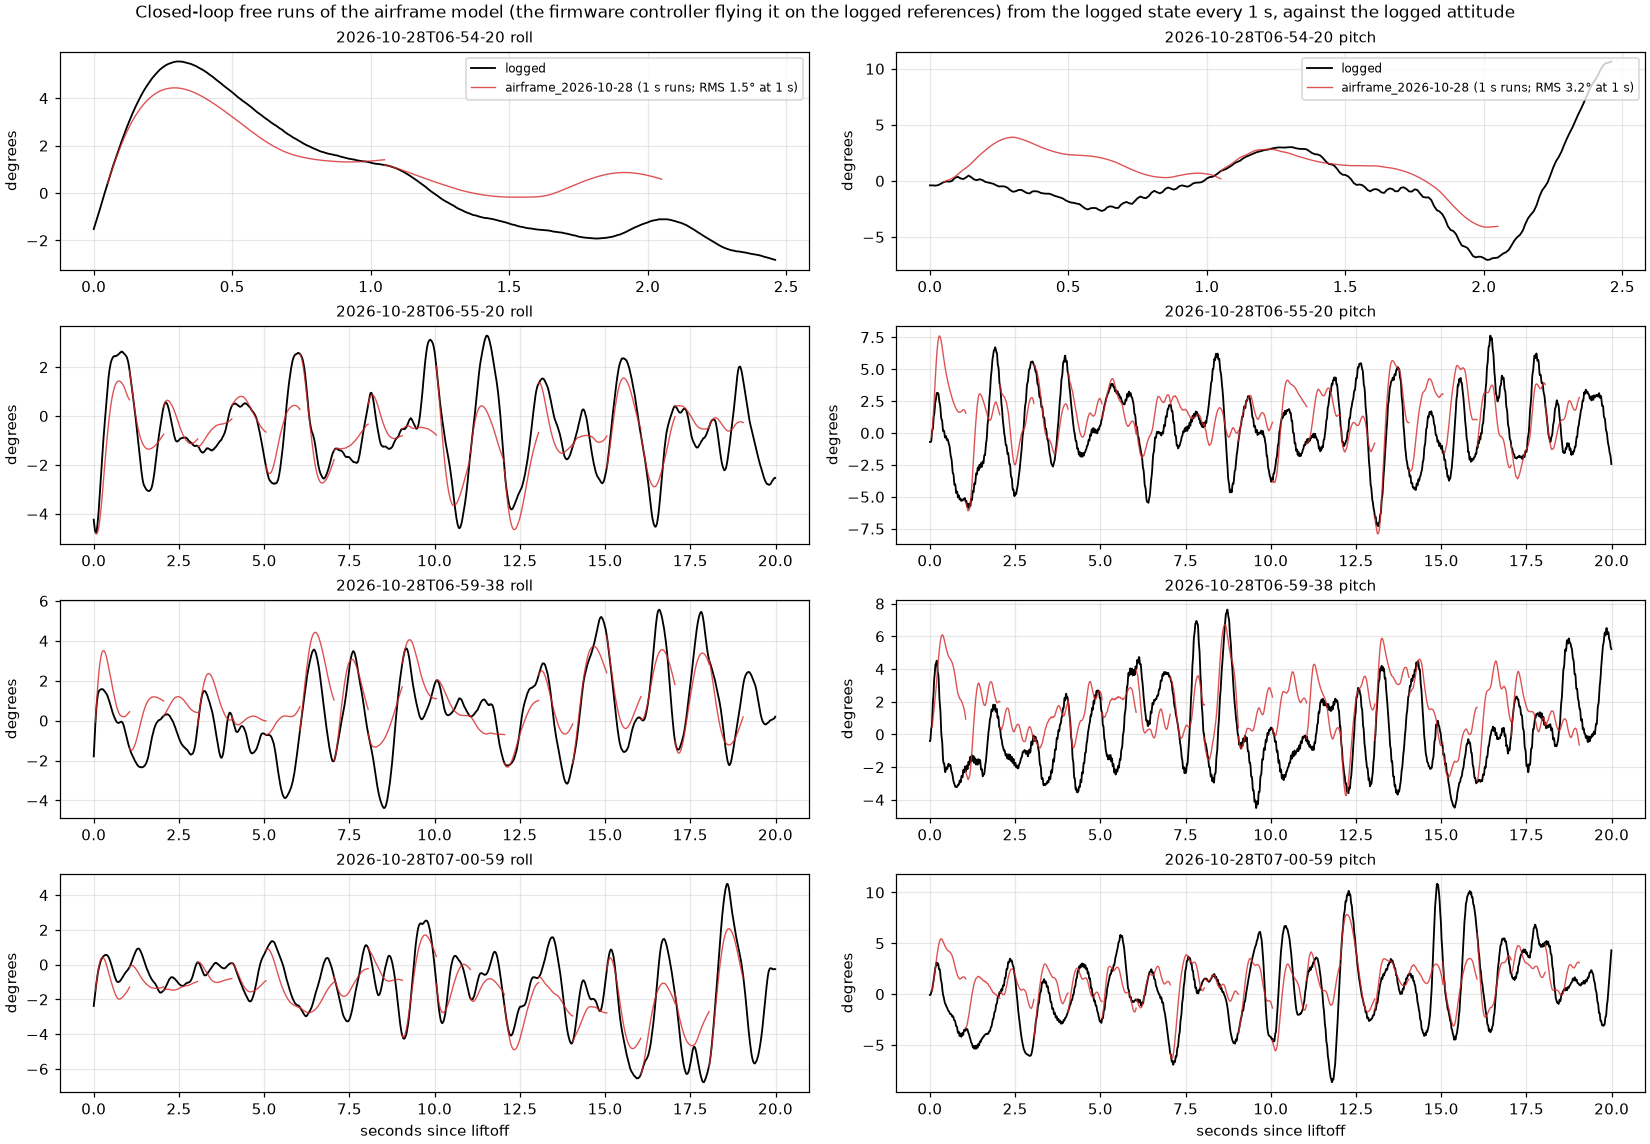
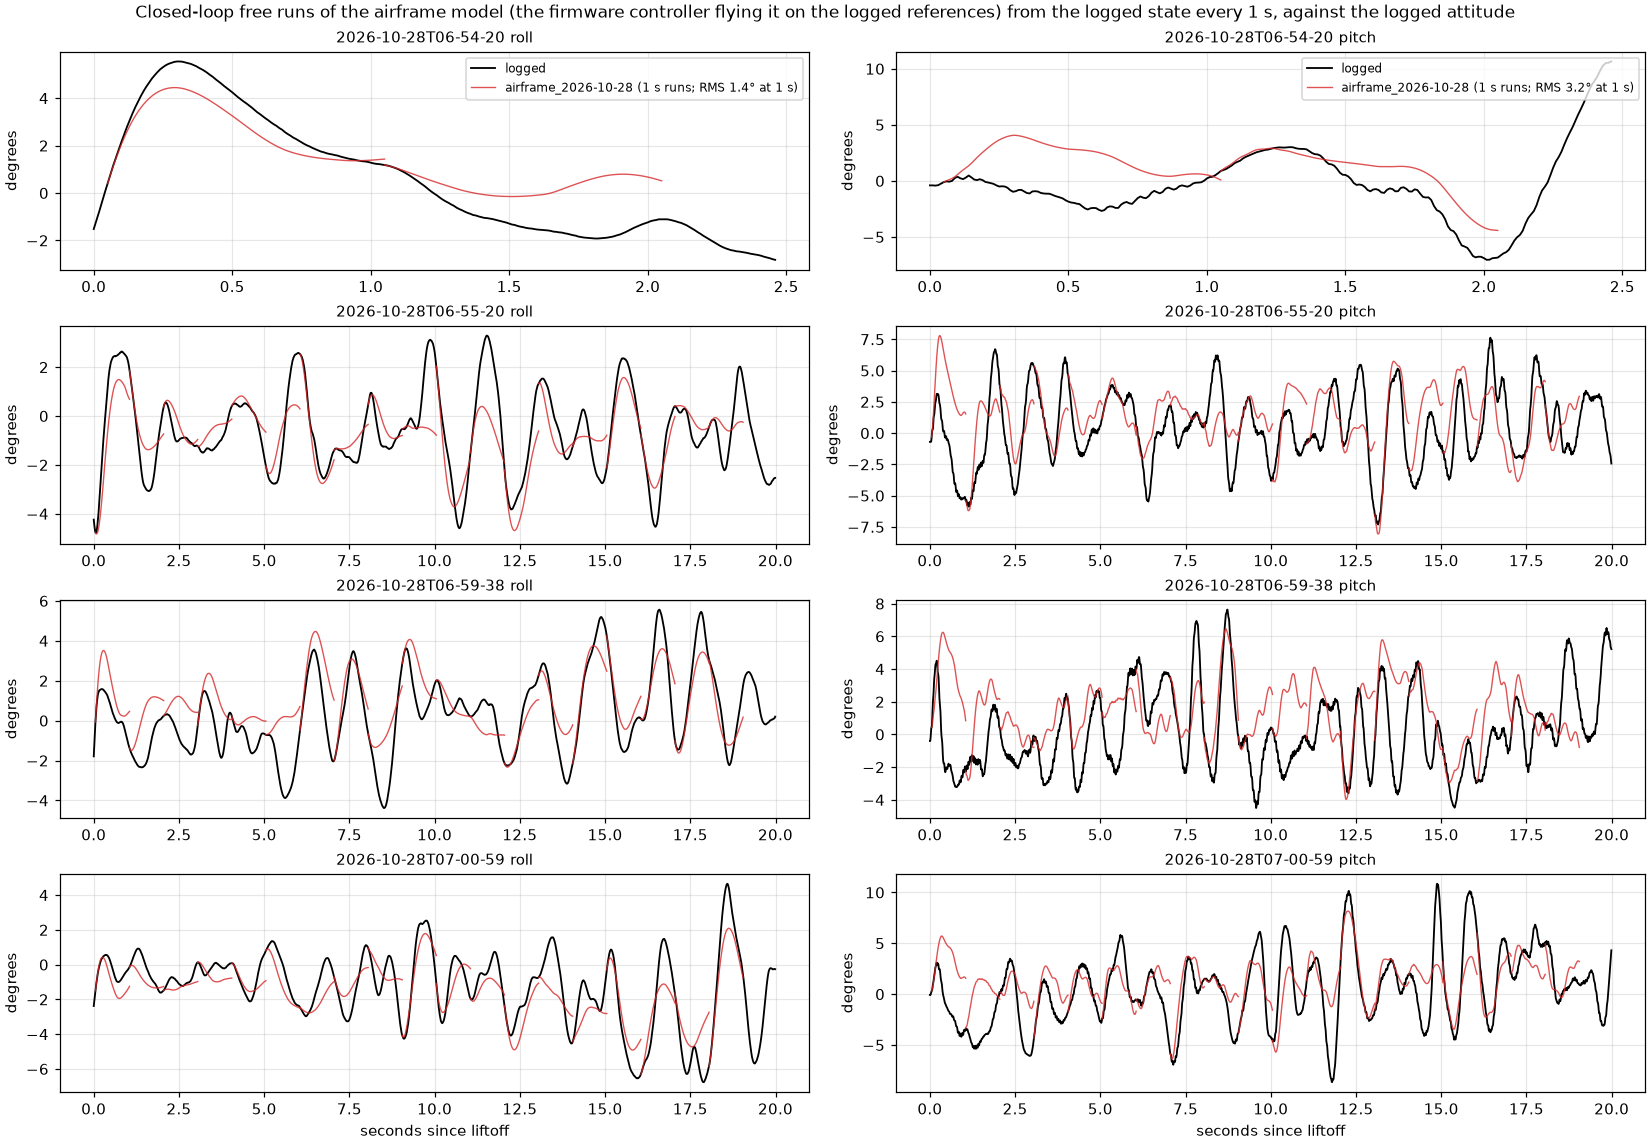
Fifth sim calibration, also matching the attitude rates below 5 Hz and comparing the hover's position estimate on both sides (six seeds): pitch/roll rate 21.4/9.1 against 21.6/9.6 deg/s, range/sideways RMS 0.15/0.17 against 0.16/0.16 m; recovery 82%, flip 90%/98%; hover stage 1 8/16 cm, stage 2 8/10

diff --git a/src/sw/sim/calibrate_sim.py b/src/sw/sim/calibrate_sim.py
@@ -1,7 +1,7 @@
 """
 Calibrate the hover sim to the real camera hovers' closed-loop behaviour: uv run --with scipy --with cma -m sw.sim.calibrate_sim [--generations 30] [--workers 90]
 
-identify_airframe fits the airframe to short-horizon prediction, which the attitude controller's feedback dominates: it pins the plant above about 2 Hz but barely constrains its low-frequency gain, while fit_disturbances only sizes the torque residual's drift. Flown in closed loop, the sim then wobbles at the wrong frequency (0.7 Hz in pitch against the real 0.9-1 Hz). This CMA-ES search sets what both leave loose so that the sim flying each camera hover's settings (sweep.run with hover=True) matches the hover's statistics: the pitch and roll attitude spectra in three bands (0.3-0.8, 0.8-1.5, 1.5-3 Hz), the range error and sideways RMS and how fast they fade. Searched: scales on the tilt's pitch torque (through wash_z, so its lagged share pitch_wake scales with it), on the lagged share and its lag, on the roll authority (differential_slope), on the attitude terms (roll_pendulum, pitch_pendulum), and on the calibrated disturbances (roll and pitch torque drift size and correlation time, forward force drift size, sideways force drift size and correlation time). The prediction error on the logs (identify_airframe's closed-loop free runs at 250 ms, 500 ms and 1 s, all flights) is kept within reach by a penalty on its growth. Writes the scaled airframe and disturbances next to the sources (--out-airframe, --out-disturbances).
+identify_airframe fits the airframe to short-horizon prediction, which the attitude controller's feedback dominates: it pins the plant above about 2 Hz but barely constrains its low-frequency gain, while fit_disturbances only sizes the torque residual's drift. Flown in closed loop, the sim then wobbles at the wrong frequency (0.7 Hz in pitch against the real 0.9-1 Hz). This CMA-ES search sets what both leave loose so that the sim flying each camera hover's settings (sweep.run with hover=True) matches the hover's statistics: the pitch and roll attitude spectra in three bands (0.3-0.8, 0.8-1.5, 1.5-3 Hz) and their rates below 5 Hz, the range error and sideways RMS (from the hover's own position estimate on both sides) and how fast they fade. Searched: scales on the tilt's pitch torque (through wash_z, so its lagged share pitch_wake scales with it), on the lagged share and its lag, on the roll authority (differential_slope), on the attitude terms (roll_pendulum, pitch_pendulum), and on the calibrated disturbances (roll and pitch torque drift size and correlation time, forward force drift size, sideways force drift size and correlation time). The prediction error on the logs (identify_airframe's closed-loop free runs at 250 ms, 500 ms and 1 s, all flights) is kept within reach by a penalty on its growth. Writes the scaled airframe and disturbances next to the sources (--out-airframe, --out-disturbances).
 """
 
 import argparse
@@ -29,7 +29,7 @@ FLIGHTS = ("2026-10-28T06-54-20-503Z_1581871433", "2026-10-28T06-55-20-397Z_7573
 FS = 100.0
 SETTLE, LANDING = 4.0, 4.0
 BANDS = ((0.3, 0.8), (0.8, 1.5), (1.5, 3.0))
-SEEDS = 4
+SEEDS = 6
 # Searched: name, low, high, start (log-scaled; the lag and correlation times start at the current plant's, see starting).
 SPACE = (("pitch_gain", 0.6, 1.8, 1.0), ("wake_gain", 0.3, 3.0, 1.0), ("wake_tau", 0.2, 2.0, 1.0), ("roll_gain", 0.6, 2.5, 1.0), ("roll_pendulum_gain", 0.2, 3.0, 1.0), ("pitch_pendulum_gain", 0.2, 3.0, 1.0),
          ("pitch_drift", 0.3, 3.0, 1.0), ("roll_drift", 0.3, 3.0, 1.0), ("pitch_tau", 0.05, 1.5, 0.1), ("roll_tau", 0.05, 1.5, 0.1), ("force_drift", 0.3, 3.0, 1.0), ("side_drift", 0.3, 5.0, 1.0), ("side_tau", 0.2, 10.0, 0.47))
@@ -38,8 +38,11 @@ PENALTY = 4.0
 
 
 def bands(series):
+    """Band RMS of an angle (degrees), then its rate's RMS over 0.3-5 Hz (deg/s; the gyro above that is mostly rotor vibration)."""
     f, power = welch(series - series.mean(), fs=FS, nperseg=min(len(series), 1024))
-    return [math.sqrt(power[(f >= lo) & (f < hi)].sum() * (f[1] - f[0])) for lo, hi in BANDS]
+    df = f[1] - f[0]
+    rate = (f >= 0.3) & (f < 5.0)
+    return [math.sqrt(power[(f >= lo) & (f < hi)].sum() * df) for lo, hi in BANDS] + [math.sqrt((power[rate] * (2 * math.pi * f[rate]) ** 2).sum() * df)]
 
 
 def decorrelation(series):
@@ -49,7 +52,7 @@ def decorrelation(series):
 
 
 def statistics(pitch, roll, reach, side):
-    """The matched statistics of one hover: pitch and roll band RMS (degrees), range and sideways RMS (m) and fade times (s)."""
+    """The matched statistics of one hover: pitch and roll band RMS (degrees) and rate RMS (deg/s), range and sideways RMS (m) and fade times (s)."""
     return np.array(bands(pitch) + bands(roll) + [reach.std(), side.std(), decorrelation(reach), decorrelation(side)])
 
 
@@ -115,11 +118,13 @@ def fly(job):
         return None
     t = np.array([e[0] for e in log]) - result["liftoff_s"]
     keep = t > SETTLE
-    position = np.array([e[1] for e in log])[keep]
     estimate = np.degrees([e[3] for e in log])[keep]
-    tag = np.array(p["camera"]["tag"])
-    reach = np.hypot(tag[0] - position[:, 0], tag[1] - position[:, 1]) - 2.0
-    return statistics(estimate[:, 1], estimate[:, 0], reach, position[:, 1] - tag[1])
+    # The hover's own position estimate, as the real hovers log it (sweep.run's log).
+    hover = [e[8] for e, k in zip(log, keep) if k]
+    x, y = np.array([h[0][0] for h in hover]), np.array([h[0][1] for h in hover])
+    reach = np.hypot(x, y)
+    side = np.angle(np.exp(1j * (np.arctan2(y, x) - np.array([h[1] for h in hover])))) * reach
+    return statistics(estimate[:, 1], estimate[:, 0], reach - np.array([h[2] for h in hover]), side)
 
 
 DATA = None
@@ -178,7 +183,7 @@ def main():
     args = parser.parse_args()
     import cma
     target = [real(name) for name in HOVERS]
-    names = ["pitch 0.3-0.8", "0.8-1.5", "1.5-3", "roll 0.3-0.8", "0.8-1.5", "1.5-3", "range", "side", "range fade", "side fade"]
+    names = ["pitch 0.3-0.8", "0.8-1.5", "1.5-3", "rate", "roll 0.3-0.8", "0.8-1.5", "1.5-3", "rate", "range", "side", "range fade", "side fade"]
     print("real   " + "  ".join(f"{n} {v:.2f}" for n, v in zip(names, np.mean(target, 0))), flush=True)
     given = dict((k, float(v)) for k, v in (item.split("=") for item in args.start.split(",") if item))
     start = np.array([given.get(s[0], v) for s, v in zip(SPACE, starting())])

diff --git a/src/sw/sim/models/NOTES.md b/src/sw/sim/models/NOTES.md
@@ -165,6 +165,8 @@ Roll authority is still not pinned: differential_slope came out 0.32 identified,
 
 **Sensors in the hover sim (2026-10-28 afternoon).** The pitch gyro carries the rotors' 21 Hz vibration (gyro_vibration, 10 deg/s RMS, 17–25 Hz): the sim's pitch rate below 5 Hz is now 20.5–22 deg/s against the real 21–22 (was 19.5). The camera's noise is split: 0.5% of the distance along the line of sight (range) and 0.05% across the image (lateral_noise), from the camera hovers' sideways spectrum above 2 Hz. plot_hover compares the hover's own camera-based position estimate on both sides, and its range and sideways spectra now match the real ones across the whole band (noise floors and the camera's frame-rate lines included). A fourth calibration pass also fits the sideways force drift (×1.48, correlation 1.42 s instead of 0.47): sideways RMS 0.14 against 0.16 m fading in 2.0 against 2.0 s, pitch bands 1.56/2.30/1.03° and roll 1.67/0.86/0.23° against 1.65/2.51/0.91 and 1.75/0.90/0.25, prediction unchanged (0.96/2.95° at 250 ms, 1.43/3.11° at 500 ms). On it: recovery 81.5% safe over the tuning drops, flip 88% clean randomized and 96% nominal, hover stage_1 holds 9/11 cm with the extra 1 m/s² of wash (flown 139/15).
 
+A fifth pass also matches the pitch and roll rates below 5 Hz and compares the hover's own position estimate on both sides, with six seeds: mismatch 0.152 over 12 statistics. Pitch/roll rate 21.4/9.1 against 21.6/9.6 deg/s, range/sideways RMS 0.15/0.17 against 0.16/0.16 m with the real fade times, attitude bands within 7% except pitch 0.3–0.8 Hz (14% high); prediction 0.96/2.87° at 250 ms. The sideways drift is now ×1.84 at 1.12 s. On it: recovery 82% safe over the tuning drops, flip 90% clean randomized and 98% nominal. Hover: flown 18/18 cm, stage_1 8/16 cm, best (stage 2) 8/10 cm; with the extra wash flown 126/18, stage_1 21/14, best 12/11. With the sideways wander now real-sized, stage 1 mostly fixes range and stage 2's stiffer roll loop the sideways hold.
+
 **Full-attitude sim in the air (validate_rigid.py).** rigid.py flown in closed loop from the same starts, with no random disturbances or sensor noise, matches the airframe model to within 0.1° up to 500 ms. At 1 s its pitch error is 3.7° against the model's 3.1°, and yaw R² 0.28 against 0.34. About a third of that gap is the horizontal drag: rigid.py uses the drag calibrated from the camera's position statistics (0.58, 0.34 per s), the airframe model its own velocity fit (1.17, 0.68). Battery sag and the thrust-scaled flying terms change nothing. Limits: hover-like flight only (attitudes within about 20°, the range the flights covered); the aggressive states of recovery and flips are extrapolation. Beyond that range rigid.py keeps the airframe model's attitude and speed terms at what hover measured: tilt clipped to 0.6 rad and faded out by 90°, body-plane speed clipped to 1.5 m/s with the same fade. Before this, those terms (roll stiffness −13 rad/s² per rad, speed moments up to 6 rad/s² per m/s, fed a fall's speed) righted an uncontrolled inverted drone by themselves; now it tumbles. The hover-range validation above is unchanged by it.
 
 **Ground contact (validate_contact.py).** 500 motors-off touchdowns (vertical 0.3–2 m/s, horizontal 0–2 m/s, tilt 0–40° in roll or pitch, sliding toward or away from the low side) in rigid.py and in MuJoCo's own contact physics with the same body and contact points. They agree on which landings end upright in 100% of cases (97% with the CAD inertia). The legless belly tips on this grid only when pitched 40° nose-down while sliding forward at 1–1.5 m/s or more. Peak contact forces in rigid.py are about 1.7× MuJoCo's on level drops; GROUND_K 650 / GROUND_C 25 would match them, but neither engine's stiffness is measured, so force thresholds are only a loose backstop to the touchdown-speed limit.
